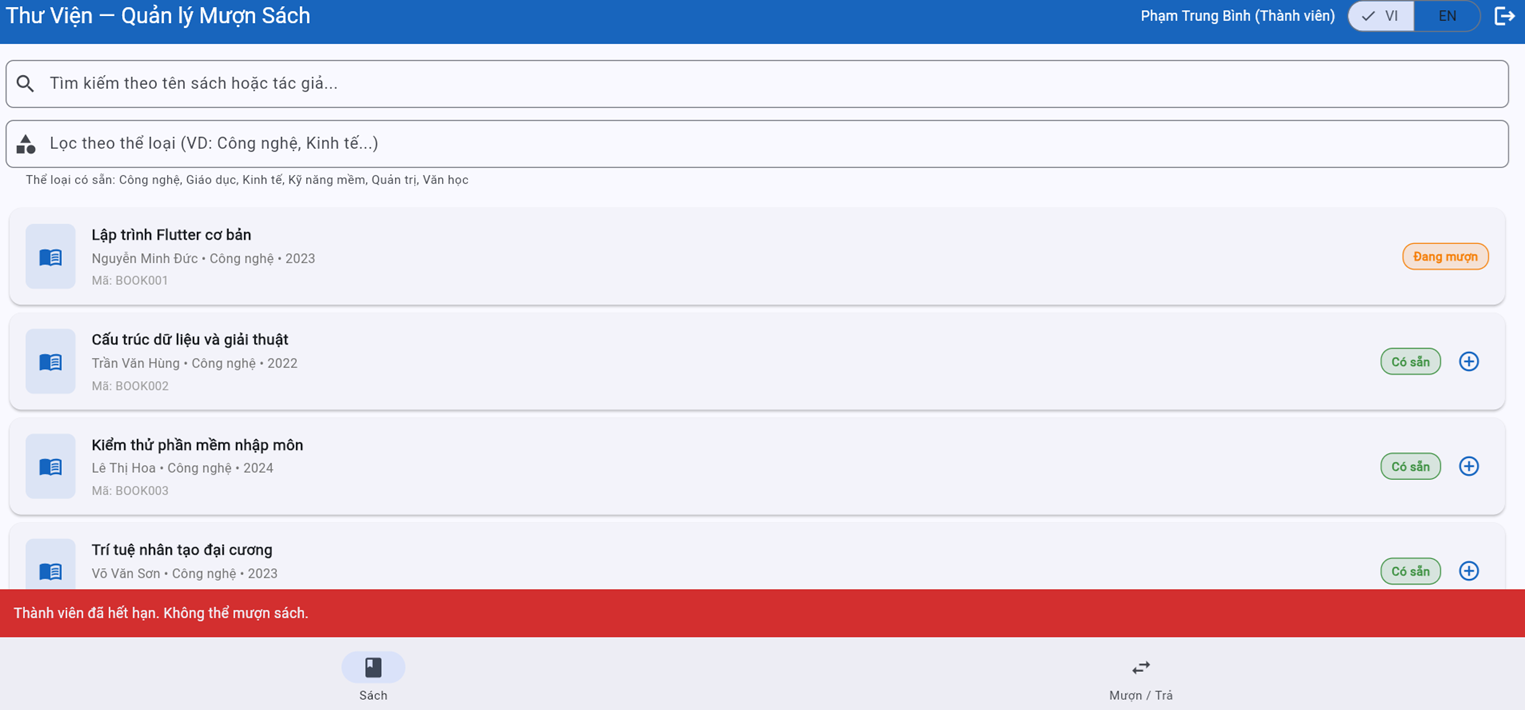
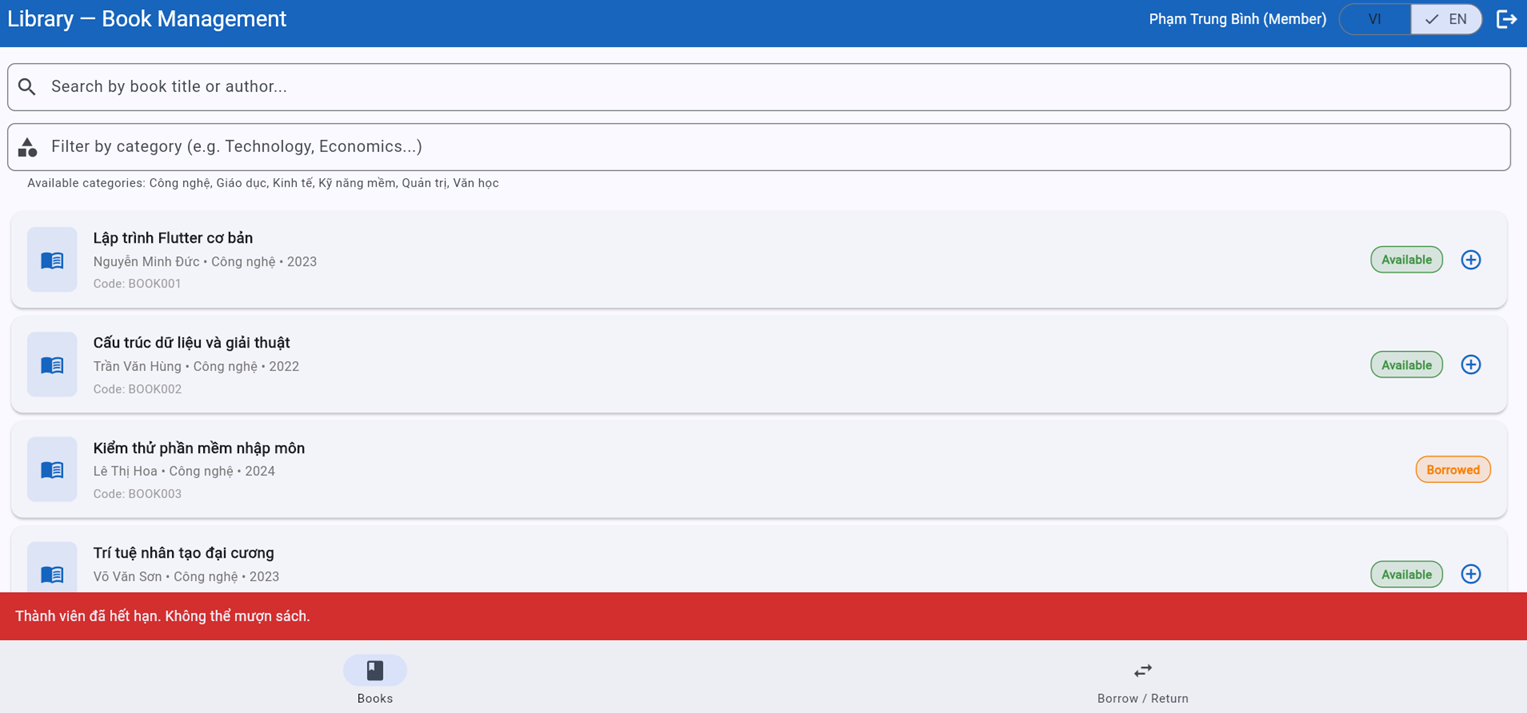
docs: update bug reports

diff --git a/submissions/bug-reports.md b/submissions/bug-reports.md
@@ -22,6 +22,10 @@
 | **Date Reported** | 29/05/2026       |
 | **Status**        | Open             |
 
+**Environment:**
+- Browser: 148.0.7778.217(64 bit)
+- OS: Windows 11
+- UI Language: Vietnamese
 
 **Precondition**:
 The login page is open
@@ -41,7 +45,7 @@ The system displays the error message "Mật khẩu không đúng" in the **Emai
 Affects the user interface and may cause user confusion.
 
 ** Proof:**
-submissions\image_bug\BUG_TC04.png
+![BUG_TC04](image_bug/BUG_TC04.png)
 
 **Suggested Fix:**
 Ensure that the "Incorrect password" validation message is displayed under the Password field instead of the Email field. Verify that validation messages are mapped to the correct input fields.
@@ -49,7 +53,7 @@ Ensure that the "Incorrect password" validation message is displayed under the P
 ---
 
 
-## BUG-01
+## BUG-02
 
 | Thuộc tính | Chi tiết |
 |-----------|---------|
@@ -93,6 +97,160 @@ Users cannot use the category filtering feature. This violates REQ-03 and causes
 Review the category filtering logic and verify that category values are correctly matched against the stored book categories.
 
 --- 
+
+## BUG-03 Điệp
+| Attribute         | Details          |
+| ----------------- | ---------------- |
+| **Bug ID**        | BUG_TC33         |
+| **Related TC**    | TC-33            |
+| **Related REQ**   | REQ-03           |
+| **Severity**      | Medium              |
+| **Reported By**   | Nguyễn Khải Điệp |
+| **Date Reported** | 29/05/2026       |
+| **Status**        | Open             |
+
+**Environment:**
+- Browser: 148.0.7778.217(64 bit)
+- OS: Windows 11
+- UI Language: Vietnamese
+
+**Precondition**:
+Logged in, on Books tab
+
+**Steps to Reproduce:**
+1. Select category "kinh tế" or "KInH tẾ" from the filter
+2. Observe the list
+
+**Expected value:**
+Shows only 3 books: BOOK007 (Kinh tế vi mô), BOOK014 (Kinh tế vĩ mô), BOOK015 (Nguyên lý kế toán). No books from other categories.
+
+**Actual Result:**
+List is empty, shows message "No books found".
+
+**Impact:**
+Reduces search efficiency, as users must enter the exact letter casing (uppercase/lowercase) to find matching results.
+
+**Proof:**
+![BUG_TC33](image_bug/BUG_TC33.png)
+
+**Suggested Fix:**
+Make the category filter case-insensitive by normalizing both the user input and stored category values before comparison. The filter should return the same results regardless of uppercase or lowercase letters.
+
+## BUG-04 Điệp
+| Attribute         | Details          |
+| ----------------- | ---------------- |
+| **Bug ID**        | BUG_TC14         |
+| **Related TC**    | TC-14            |
+| **Related REQ**   | REQ-04           |
+| **Severity**      | Low              |
+| **Reported By**   | Nguyễn Khải Điệp |
+| **Date Reported** | 29/05/2026       |
+| **Status**        | Open             |
+
+**Environment:**
+- Browser: 148.0.7778.217(64 bit)
+- OS: Windows 11
+- UI Language: Vietnamese
+
+**Precondition**:
+**ba.nguyen** is logged in. BOOK003 is "Borrowed" (by MEM002 — BR001 from Seed Data).
+
+**Steps to Reproduce:**
+ 1. Log in as `ba.nguyen`
+ 2. Go to **Books** tab → BOOK003 
+ 3. Click **Borrow** 
+
+**Expected value:**
+System rejects and shows error message: book is **unavailable** / already borrowed. No new slip created.
+
+**Actual Result:**
+BOOK003 does not have the (+) button,the borrow action cannot be performed.No error message is displayed.
+
+**Impact:**
+The absence of a notification message makes it difficult for users to identify the issue.
+
+** Proof:**
+![BUG_TC14](image_bug/BUG_TC14.png)
+
+**Suggested Fix:**
+Display a clear notification message when a book is unavailable or already borrowed. If the Borrow (+) button is hidden for unavailable books, provide a visible status indicator and explanatory message so users understand why the borrow action cannot be performed.
+
+## BUG-05 Điệp
+| Attribute         | Details          |
+| ----------------- | ---------------- |
+| **Bug ID**        | BUG_TC15         |
+| **Related TC**    | TC-15            |
+| **Related REQ**   | REQ-04           |
+| **Severity**      | Medium              |
+| **Reported By**   | Nguyễn Khải Điệp |
+| **Date Reported** | 29/05/2026       |
+| **Status**        | Open             |
+
+**Environment:**
+- Browser: 148.0.7778.217(64 bit)
+- OS: Windows 11
+- UI Language: Vietnamese
+
+**Precondition**:
+ `cu.le` (MEM004, **Suspended**) is logged in. BOOK001 is "Available". 
+
+**Steps to Reproduce:**
+ 1. Log in as `cu.le`
+ 2. Go to Books tab → BOOK001
+ 3. Click **Borrow**
+
+**Expected value:**
+System rejects and shows reason "Suspended" — message must be different from the "Expired" case. No slip created.
+
+**Actual Result:**
+System rejects and shows error message:"Thành viên đã hết hạn. Không thể mượn sách."-the same message as the "Expired" case.
+
+**Impact:**
+The inaccurate error message may mislead users about the actual cause of the issue.
+
+** Proof:**
+![BUG_TC15](image_bug/BUG_TC15.png)
+
+**Suggested Fix:**
+Display a specific error message for suspended accounts, such as "Member account is suspended. Borrowing books is not allowed." Ensure that suspended and expired account statuses are handled separately and show different messages to accurately reflect the reason for rejection.
+
+## BUG-06 Điệp
+| Attribute         | Details          |
+| ----------------- | ---------------- |
+| **Bug ID**        | BUG_TC34         |
+| **Related TC**    | TC-34            |
+| **Related REQ**   | REQ-04           |
+| **Severity**      | High              |
+| **Reported By**   | Nguyễn Khải Điệp |
+| **Date Reported** | 29/05/2026       |
+| **Status**        | Open             |
+
+**Environment:**
+- Browser: 148.0.7778.217(64 bit)
+- OS: Windows 11
+- UI Language: Vietnamese
+
+**Precondition**:
+`binh.pham` (MEM005, Expired) is logged in. BOOK001 is "Available".ble". 
+
+**Steps to Reproduce:**
+1. Log in as binh.pham
+2. Go to Books tab → BOOK001 
+3. Click Borrow
+
+**Expected value:**
+Shows reason "Thành viên đã hết hạn. Không thể mượn sách." in VI or "The member account has expired. Borrowing books is not allowed." in EN
+
+**Actual Result:**
+Shows reason "Thành viên đã hết hạn. Không thể mượn sách." in VI and EN
+
+**Impact:**
+Impacts both the user interface and user experience.
+** Proof:**
+![BUG_TC34](image_bug/BUG_TC34.png)
+
+**Suggested Fix:**
+Implement proper localization for error messages. When the interface language is set to English, display "The member account has expired. Borrowing books is not allowed." instead of the Vietnamese message. Ensure all system messages are translated according to the selected language setting.
 ## BUG-02
 
 | Thuộc tính | Chi tiết |
